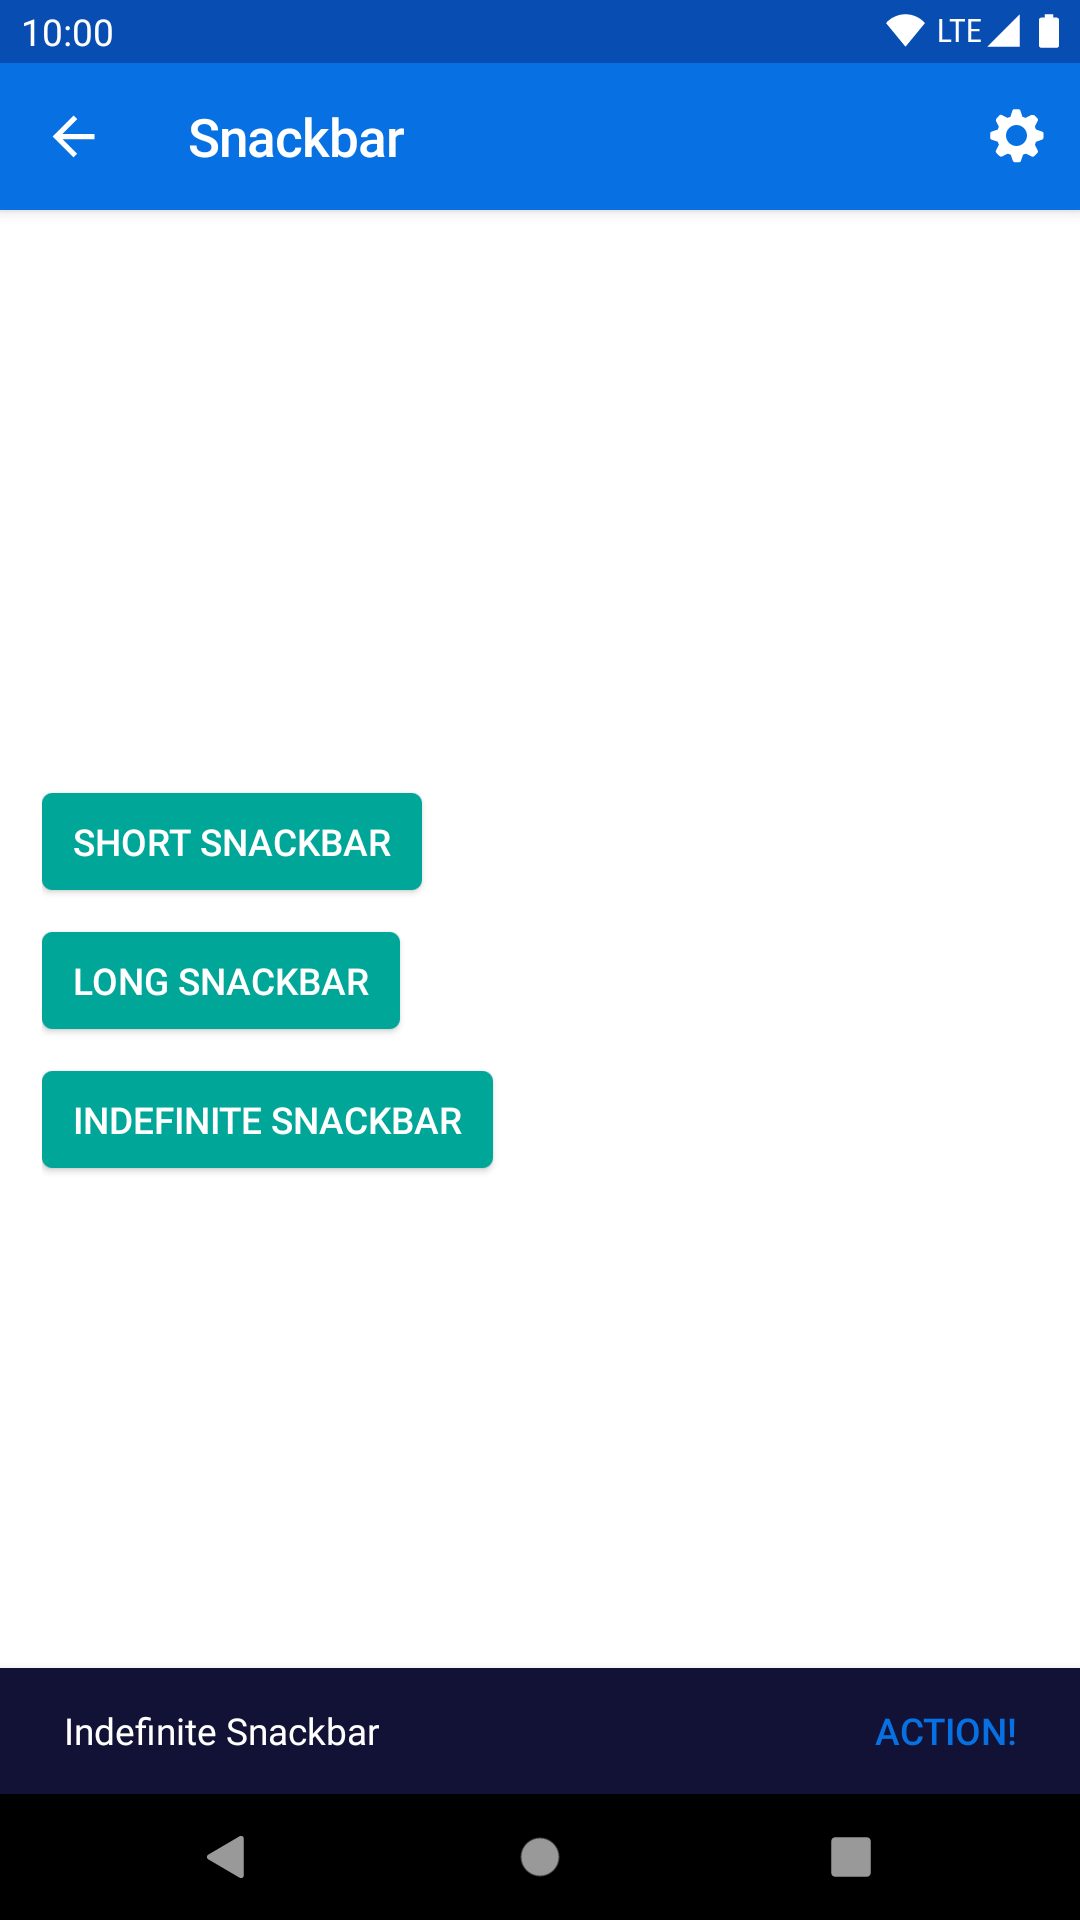
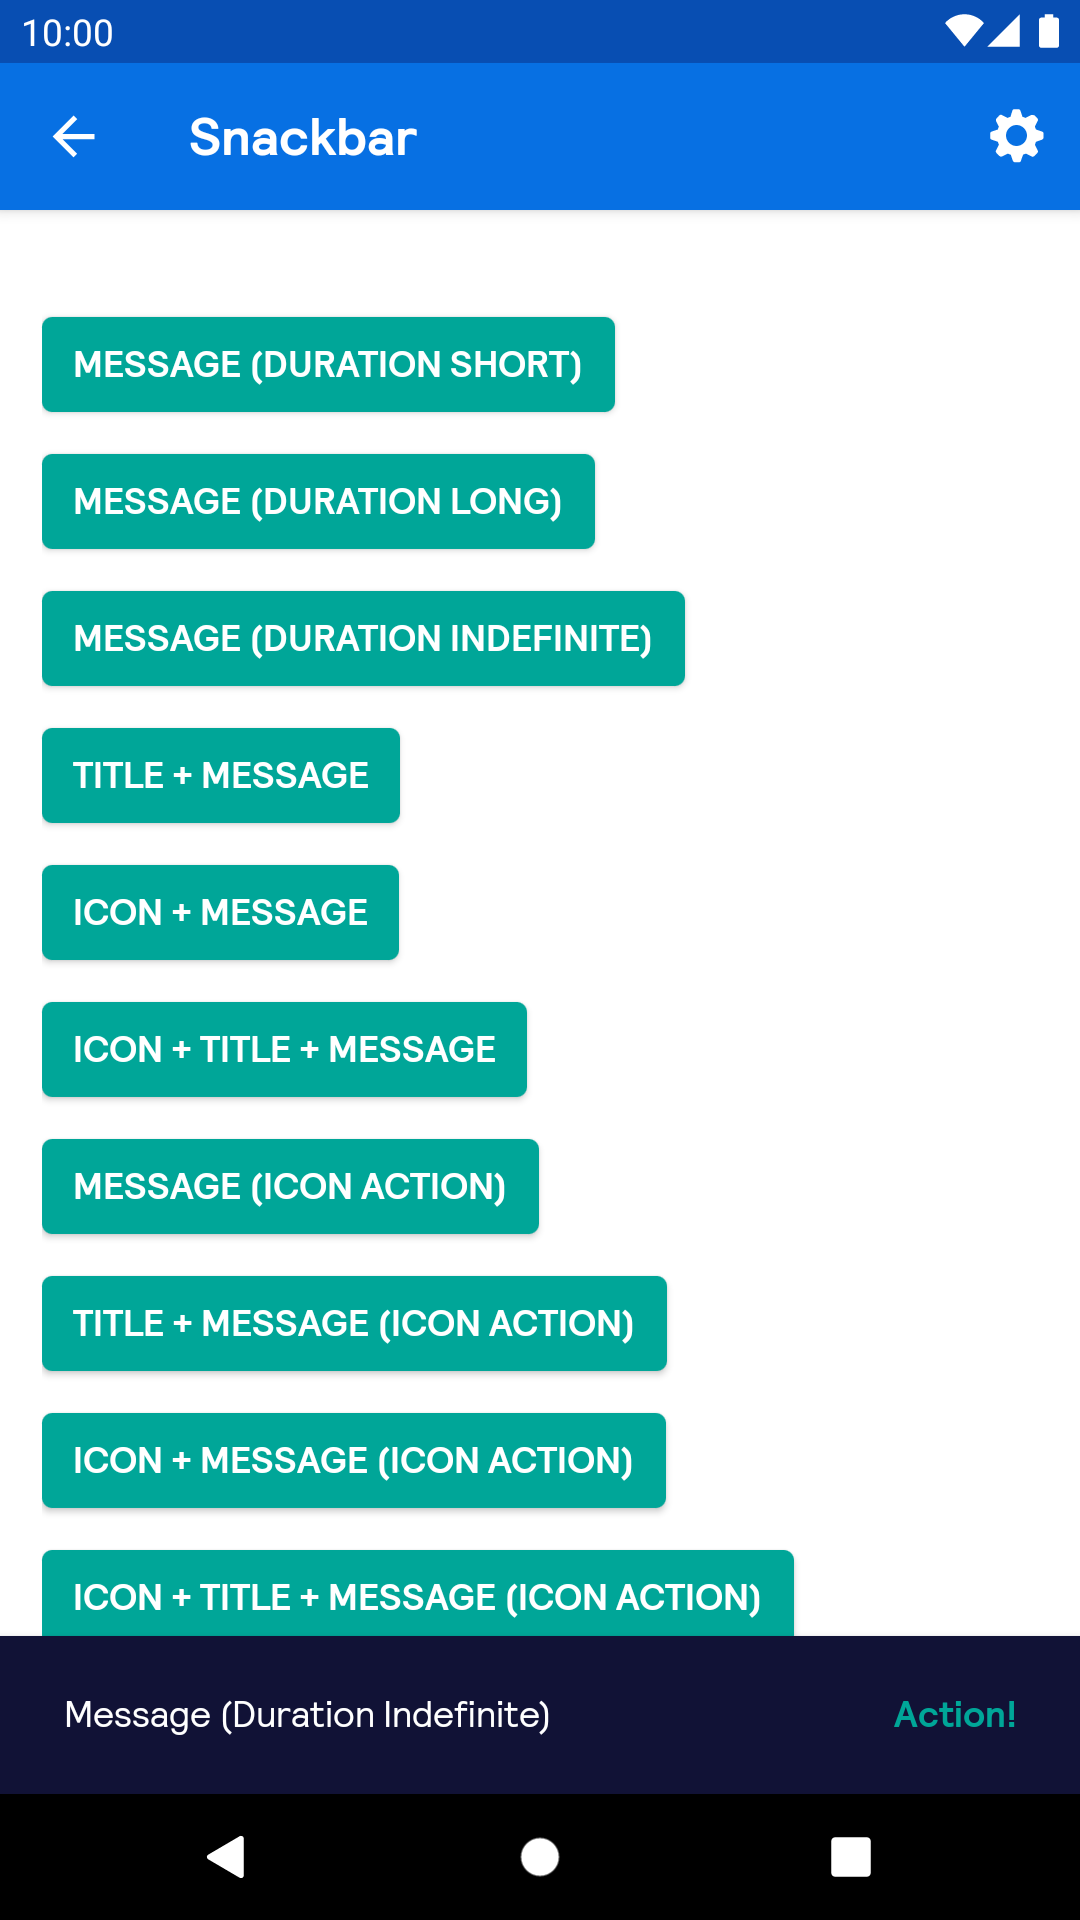
[BPK-3187] Added missing screenshot.

diff --git a/app/src/androidTest/java/net/skyscanner/backpack/docs/DocsRegistry.kt b/app/src/androidTest/java/net/skyscanner/backpack/docs/DocsRegistry.kt
@@ -45,6 +45,7 @@ object DocsRegistry {
     Screenshot("Rating - Sizes", "sizes"),
     Screenshot("Rating - Size Vertical", "vertical"),
     Screenshot("Snackbar", "default", ::setupSnackbar),
+    Screenshot("Snackbar", "icon", ::setupSnackbarIconAction),
     Screenshot("Star Rating - Default", "default"),
     Screenshot("Star Rating Interactive", "default"),
     Screenshot("Switch", "default"),
@@ -95,7 +96,14 @@ private fun setupDialog() {
 }
 
 private fun setupSnackbar() {
-  Espresso.onView(ViewMatchers.withText("INDEFINITE SNACKBAR"))
+  Espresso.onView(ViewMatchers.withText("MESSAGE (DURATION INDEFINITE)"))
+    .perform(ViewActions.click())
+
+  Thread.sleep(50)
+}
+
+private fun setupSnackbarIconAction() {
+  Espresso.onView(ViewMatchers.withText("ICON + TITLE + MESSAGE (ICON ACTION)"))
     .perform(ViewActions.click())
 
   Thread.sleep(50)
